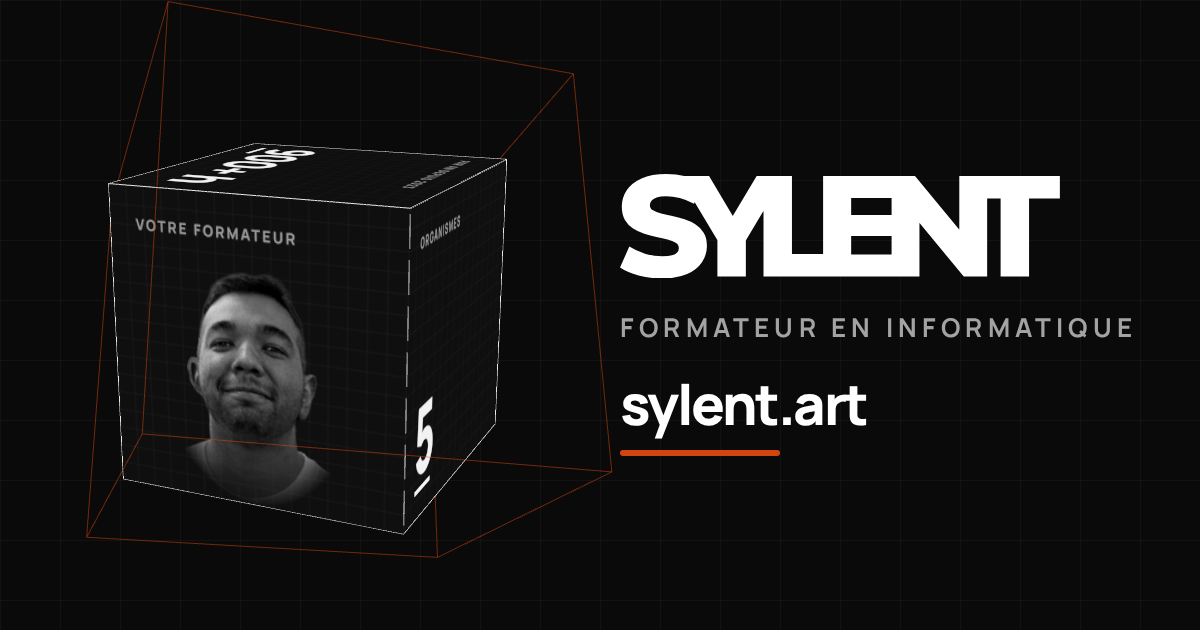
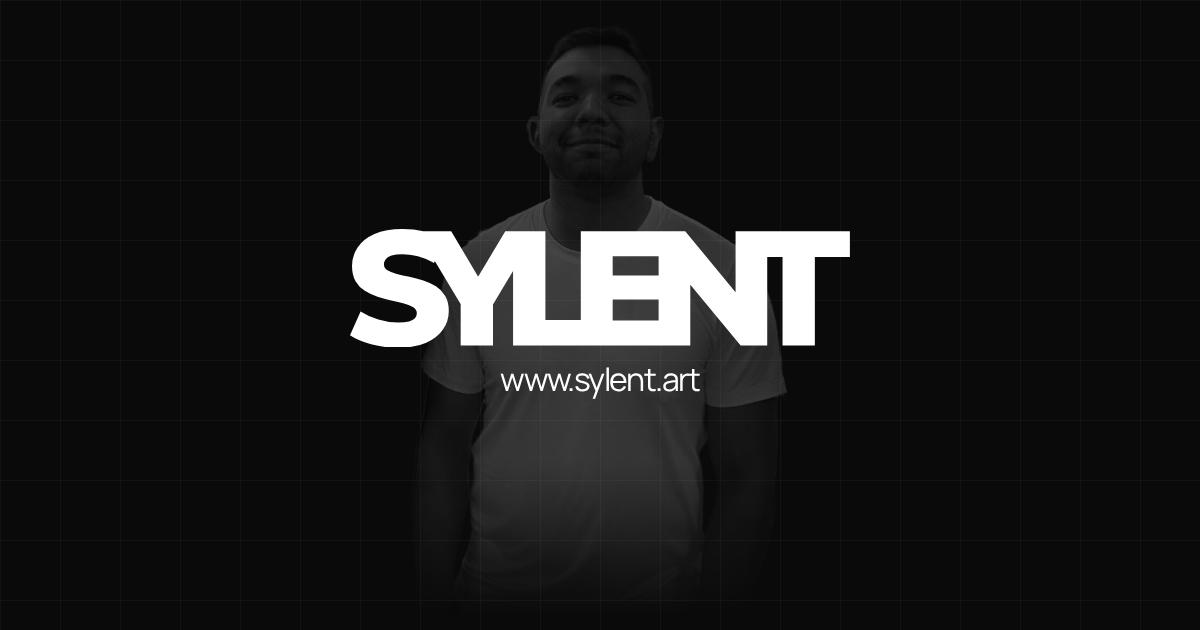
feat(launch): settle the preview card and check the open graph tags
The preview card becomes the SYLENT logo and the address over the faded
photo of the owner, settled with the owner on a page of trials. The checks
now fail on a page whose card title, URL or image is wrong; the trials of
the cards on the preview are added to step 14c.

diff --git a/docs/technical-choices.md b/docs/technical-choices.md
@@ -26,7 +26,7 @@ The technical choices of the [roadmap](../roadmap.md), with their reasons and th
 - **Redirects**: in a static build, Astro's `redirects` option writes, for each former URL, a page with a canonical link and an immediate `<meta http-equiv="refresh">`, which is what `specs.md` asks for since GitHub Pages has no server-side redirects. Astro doesn't add the base path to their destination: `astro.config.mjs` adds it. The redirects of `/courses/<id>` are generated by `src/pages/courses/[id].astro` (`Astro.redirect`, which writes the same page) from the `formerId` of each module, so a former URL cannot be forgotten; the others, `/courses`, `/about` and `/policy` toward their French paths and `/articles`, `/articles/1`, `/articles/2` to the home page since the site has no articles, are written in `astro.config.mjs`.
 - **Redirect pages in French**: `experimental.redirectPage` (Astro 7.4, still experimental on 2026-10-30, chosen with the owner) writes each redirect, those of `redirects` and of `Astro.redirect` alike, with `src/pages/3xx.astro` instead of Astro's page in English: a black page « Cette page a changé d’adresse », with the same immediate refresh, canonical link and `noindex`, without the fonts and scripts of the site. Astro also builds the template itself as `/3xx.html`, without a redirect to fill it: a hook of `astro.config.mjs` removes it, if it is there. If the option disappears or the page fails, Astro falls back to its own page in English and the redirects keep working; `scripts/check-former-urls.mjs` then fails, since it checks that every redirect page is the French one.
 - **Sitemap and `robots.txt`**: `scripts/sitemap.mjs`, a small integration of `astro.config.mjs`, writes `sitemap.xml` once the site is built, from the canonical link of every built page that points to itself (compared to the path of its file, under the base; the build fails if none does): the redirect pages, whose canonical link points to their target, and the not-found page, which has none (`noindex`), are left out by construction, and a new page is listed without changing the script. `src/pages/robots.txt.ts` allows every page and gives the address of the sitemap. Rejected: `@astrojs/sitemap`, a dependency whose filter would have to list every redirect, the `Astro.redirect` pages of the former courses and of the formations of a single module included.
-- **Open Graph**: `src/layouts/base-layout.astro` gives every page the tags that LinkedIn and Facebook read to show a card for a link (`og:title` and `og:description` from the title and meta description of the page, `og:url` from its canonical URL, `og:site_name`, `og:locale`, `twitter:card` for the networks that read only it) and one image, `src/assets/brand/social-card.png` (see [docs/branding.md](branding.md#icons-and-images)). `getImage` converts it to JPEG at 1200 × 630 (about 60 kB): the networks read JPEG everywhere, WebP not always; its name carries a hash of its content, so that a new image gets a new URL, which the networks fetch again instead of their cached copy. The URLs are absolute, built from `site` and the base, as the networks require. The not-found page has no `og:url`, as it has no canonical link.
+- **Open Graph**: `src/layouts/base-layout.astro` gives every page the tags that LinkedIn and Facebook read to show a card for a link (`og:title` and `og:description` from the title and meta description of the page, `og:url` from its canonical URL, `og:site_name`, `og:locale`, and `twitter:card`, from which X picks the large card, reading the rest from the Open Graph tags) and one image, `src/assets/brand/social-card.png` (see [docs/branding.md](branding.md#icons-and-images)). `getImage` converts it to JPEG at 1200 × 630 (about 60 kB): the networks read JPEG everywhere, WebP not always; its name carries a hash of its content, so that a new image gets a new URL, which the networks fetch again instead of their cached copy. The URLs are absolute, built from `site` and the base, as the networks require. The not-found page has no `og:url`, as it has no canonical link.
 - **Not-found page**: `src/pages/404.astro`, written as `404.html`, which GitHub Pages serves for every path without a page, with `noindex` and no canonical link.
 - **French paths** (see `specs.md`, URLs and redirects): `/formations/<formation>/<module>/` for a module, independent of the domains (decided by the owner on 2026-10-30, at step 13, replacing the tree `/domaines/<domain>/modules/<module>/` of 2026-10-29, which was only on the preview and got no redirect), `/formations/<formation>/` for a formation, `/domaines/<domain>/` for a domain, `/a-propos/`, `/confidentialite/`, `/mentions-legales/`. The module page is `src/pages/formations/[collection]/[module].astro`, the formation page `src/pages/formations/[collection]/index.astro` (a redirect to its module for a formation of a single module), the domain page `src/pages/domaines/[domain]/index.astro`, their paths given by `modulePath`, `formationPath` and `domainPath` in `src/lib/offers.ts`. `/formations/` shows one card per domain, as the home page; `/domaines/` and `/courses/` redirect to it.
 - **Content collections**: each domain, formation and module is a Markdown file whose front matter is validated by a schema at build time (title, summary, domains, `formerId`, scene…). A missing field, an unknown scene, a duplicate order or former id, or a domain whose list of formations doesn't match its modules (checked across files by `src/lib/offers.ts`) fails the build instead of publishing a broken page. A formation is a **collection** in the code (`src/content/collections/`, the `Collection` and `Formation` types), as `specs.md` says; the Astro word « collection » names the three folders as well.
@@ -81,7 +81,7 @@ The technical choices of the [roadmap](../roadmap.md), with their reasons and th
 ## Link check
 
 - **linkinator** serves the built site (`dist/`) as a static host would, so `/a-propos` resolves to `a-propos/index.html` as on GitHub Pages, and follows every internal link of every page. External links are skipped in the regular check, so that a slow third-party site doesn't break the CI.
-- **`scripts/check-former-urls.mjs`** checks that every former URL (`/`, `/courses`, `/courses/1` to `/courses/12`, `/articles`, `/articles/1`, `/articles/2`, `/about`, `/contact`, `/policy`) exists in `dist/`, that each redirect points to the path `specs.md` gives it, written in the script, and that this page, and its anchor if any, exists (a redirect whose target it can't read fails); `npm run check:base` runs it on the github.io preview too, with its folder and its base, and that the dropped URLs (`/creations`, `/register`, `/login`) are not built. The URLs whose page a later step builds go in its `pending` list, with the step: each step removes its own (the check fails if a pending URL is built). The list is empty since step 9b. It also checks the redirects of the site, which no page links to and linkinator can't see: `/domaines/` leads to the formations page, and the address of each formation of a single module (`/formations/uml/`) to its module. Since step 14b, it also checks that the not-found page is built, that every redirect page is the French one of `src/pages/3xx.astro`, that Astro's template `/3xx.html` is not published, and that the sitemap lists only pages that exist, no redirect.
+- **`scripts/check-former-urls.mjs`** checks that every former URL (`/`, `/courses`, `/courses/1` to `/courses/12`, `/articles`, `/articles/1`, `/articles/2`, `/about`, `/contact`, `/policy`) exists in `dist/`, that each redirect points to the path `specs.md` gives it, written in the script, and that this page, and its anchor if any, exists (a redirect whose target it can't read fails); `npm run check:base` runs it on the github.io preview too, with its folder and its base, and that the dropped URLs (`/creations`, `/register`, `/login`) are not built. The URLs whose page a later step builds go in its `pending` list, with the step: each step removes its own (the check fails if a pending URL is built). The list is empty since step 9b. It also checks the redirects of the site, which no page links to and linkinator can't see: `/domaines/` leads to the formations page, and the address of each formation of a single module (`/formations/uml/`) to its module. Since step 14b, it also checks that the not-found page is built, that every redirect page is the French one of `src/pages/3xx.astro`, that Astro's template `/3xx.html` is not published, and that the sitemap lists only pages that exist, no redirect; and that every page that is not a redirect has the Open Graph tags of its own title and canonical link, and an `og:image` built in the site, under the base (linkinator skips that absolute URL).
 - linkinator's options are in `linkinator.config.json`: it follows the internal links, checks the URLs of the CSS (fonts) and the anchors (`#…`), and skips every address that isn't its local server.
 - **Links to pages still to build**: from step 7, the header and the footer linked to pages built by later steps; linkinator skipped them through a second pattern of `skip` in `linkinator.config.json`, removed in step 9b once every page of the first release existed. A link to a page not built yet goes there again, until its step.
 - Rejected: **lychee**, faster, but a Rust binary that the owner would install apart from npm; linkinator runs from `npm ci` locally and in CI alike.

diff --git a/roadmap.md b/roadmap.md
@@ -30,7 +30,7 @@ Read only by the steps that need them:
 - [ ] **14. Launch**, announced on LinkedIn, Instagram and the owner's Facebook page (asked on 2026-10-30): the supports are prepared before the switch, and published after it.
   - [x] 14a. Communication supports (#45): teaser and launch video, story and feed, the text of the post; kept by the owner out of the repository.
   - [x] 14b. Site ready to share (#46, #47): 404 page, French redirect pages, sitemap, `robots.txt`, GoatCounter on `sylent.art` only, Open Graph tags and preview card.
-  - [ ] 14c. Switch: the DNS records described for the owner, their TTL lowered to 5 minutes a day or two before; once the DNS points to GitHub Pages, remove `SITE_URL` and `BASE_PATH` from `deploy.yml` and the `check:base` script, set the custom domain in the Pages settings and enforce HTTPS (see [Deployment](docs/technical-choices.md#deployment)); check the cards of the links with the LinkedIn Post Inspector and the Facebook Sharing Debugger; show the owner how to stop counting their own visits (`#toggle-goatcounter`, [External services](docs/external-services.md)).
+  - [ ] 14c. Switch. Before it, on the preview: paste `https://aunimhsn.github.io/sylent.art/` in the LinkedIn Post Inspector and the Facebook Sharing Debugger, with `?ref=linkedin` and `?ref=facebook`, and a former address (`/about/`): check that the card shows, that the link keeps its `?ref=` (otherwise decide with the owner: accept it, or remove `og:url` from the home page), and that a redirect page shows a card (otherwise give `3xx.astro` the tags, or exclude it in `specs.md`). Then: the DNS records described for the owner, their TTL lowered to 5 minutes a day or two before; once the DNS points to GitHub Pages, remove `SITE_URL` and `BASE_PATH` from `deploy.yml` and the `check:base` script, set the custom domain in the Pages settings and enforce HTTPS; check that `www.sylent.art`, the address shown on the preview card, redirects to `sylent.art` (see [Deployment](docs/technical-choices.md#deployment)); check the cards of the links with the LinkedIn Post Inspector and the Facebook Sharing Debugger; show the owner how to stop counting their own visits (`#toggle-goatcounter`, [External services](docs/external-services.md)).
   - [ ] 14d. Publication by the owner: the teaser before the switch, which it announces on 3 November 2026; the launch video and the post once `sylent.art` is online, the link `https://sylent.art/?ref=linkedin` on LinkedIn and `?ref=facebook` on Facebook, so that GoatCounter tells the networks apart. The owner's Google Business Profile (asked on 2026-10-30): before the switch, the address hidden (a service area instead, the home address is never shown), the description of the new positioning, the category (« Formateur »), the phone; after the switch only, the link to the site `https://sylent.art/?ref=google`.
 - [ ] **15. Testimonials**: once the owner has collected at least three (LinkedIn recommendations, feedback from schools and learners, with consent to publish), add a testimonials section.
 - [ ] **16. More modules** (after the launch): TypeScript, C, an advanced Python module (data classes, Pydantic), and the modules to come of the tree of step 13 (DOM, PDO, POO in JavaScript, data visualization, CSS split into Flexbox and Grid), from the course material of `sylent-courses`; update the offers of `specs.md` first. Publish « UX / UI » (a draft in « Conception logicielle » since 2026-10-30, its program from the owner's course « Maquetter une application », brought up to Excalidraw, HTML and Claude Code) when the owner decides: a scene of its own instead of `layout`, its place among the formations of the domain, and the summary of the domain widened to the interface (e.g. « Penser un logiciel avant de l’écrire : ses données, sa structure, son interface. »). A formation card lists four modules at most, then a row « Et 6 autres » in gray to the page of the formation, so that a large formation doesn't stretch its row of cards (asked by the owner on 2026-10-30; four at most at the launch).

diff --git a/docs/branding.md b/docs/branding.md
@@ -247,7 +247,7 @@ The content rules (audiences, French typography, no rates) are in [specs.md](../
   - **Faded behind a section**, as the faded words behind the titles: behind the name on the about page, behind « Qui suis-je ? » on the home page (`src/components/owner-photo.astro`). Down to the hips, its bottom fading into the page, at 18 % from 900 px, on the right (on the about page, 6 % from the right of the window, but on a screen wider than 1440 px never further from the column than there, so that the head stays under the button « Me contacter », asked by the owner on 2026-10-30); below 900 px at 14 %, partly past the right edge, so that the face stays beside the name and not behind it (asked by the owner; on a phone 30 % of the width past the edge, on a tablet, from 640 px, 30 % of its own width; below 360 px the face may pass behind the name, accepted by the owner on 2026-10-29). Loaded at once on the about page, where it is the largest block of a phone screen. No effect. Decorative: the name beside it says who it is. The gray text keeps a contrast above 4.5:1 over its white.
   - **On the cube**: the face alone, in an oval that fades into the grid of its face (see Hero cube).
   - The source photo is about 530 px wide: sharp up to about 450 px on screen; its faded use hides its softness.
-- **Preview card** (`src/assets/brand/social-card.png`, 1200 × 630 px, chosen by the owner on 2026-10-30): the card that LinkedIn and Facebook show for a link to any page of the site, a frame of the cube of the launch video « Le cube » (step 14a): the face of the owner on the cube, in its orange shell, over the grid, beside the SYLENT logo, « Formateur en informatique » and « sylent.art » over a short orange rule. The same image for every page: the title and the description under it change with the page. Made with the tool of the launch videos (branch `docs/communication-kit`, format `card`), outside the site.
+- **Preview card** (`src/assets/brand/social-card.png`, 1200 × 630 px, settled with the owner on 2026-10-30 on a page of trials): the image that LinkedIn and Facebook show for a link to any page of the site, the same for every page (the title and the description under it change with the page). Over the background and the faint grid of the covers (60 px, white at 3.5 %), centered: the SYLENT logo, 500 px wide, and 10 px below « www.sylent.art » in Manrope 400 at 32 px, letter-spaced −0.05 em, in white; behind them, the photo down to the hips, faded as on the site, its bottom fading out, at 24 % rather than the 18 % of the site, so that the face still reads on a phone, where the card is about 360 px wide. Nothing else: no text, no cube (a frame of the cube of the launch video, the photo beside the logo, a thin or a heavy address were set aside). Drawn as an HTML page and captured at 1200 × 630, outside the site.
 - Images in a light format (WebP) at their displayed size, each with an `alt` text; the preview card only is served in JPEG, which every network reads.
 
 ## Accessibility

diff --git a/docs/roadmap-archive.md b/docs/roadmap-archive.md
@@ -7,7 +7,7 @@ The detail of the steps of [roadmap.md](../roadmap.md) once their pull request i
 Step 14, launch: what the site needs before its links are shared, in two pull requests.
 
 - 14b-1 (#46): the not-found page; the redirect pages in French (`src/pages/3xx.astro`, Astro's experimental `redirectPage`); `sitemap.xml` and `robots.txt` without the redirect pages (`scripts/sitemap.mjs`); GoatCounter on `sylent.art` only, its script pinned with its hash; the phone number of GitHub checked (none on its own pages, the public one kept); the owner's Google Business Profile added to step 14d.
-- 14b-2 (#47): the Open Graph tags on every page (title, description, URL, site name, locale) and one preview card of 1200 × 630 px, a frame of the cube of the launch video « Le cube », chosen by the owner on 2026-10-30 among three layouts, served in JPEG (see [Branding](branding.md#icons-and-images) and [Technical choices](technical-choices.md#astro)).
+- 14b-2 (#47): the Open Graph tags on every page (title, description, URL, site name, locale) and one preview card of 1200 × 630 px, the SYLENT logo and « www.sylent.art » in Manrope, centered over the faded photo of the owner, settled with the owner on 2026-10-30 after two rounds of layouts (a frame of the cube of the launch video set aside), served in JPEG (see [Branding](branding.md#icons-and-images) and [Technical choices](technical-choices.md#astro)).
 
 ## 14a. Communication supports (#45)
 

diff --git a/specs.md b/specs.md
@@ -209,7 +209,7 @@ GitHub Pages has no server-side redirects: a redirect is a static page with a ca
 
 - Static site on GitHub Pages, custom domain `sylent.art`, HTTPS enforced, `CNAME` file kept.
 - Every page has a title, a meta description, `lang="fr"`, and is usable at phone width.
-- Every page has the Open Graph tags, so that a link to it shows a card on LinkedIn and Facebook: its title, its description and one preview image of 1200 × 630 px, the same for the whole site, a frame of the cube of the launch video.
+- Every page has the Open Graph tags, so that a link to it shows a card on LinkedIn and Facebook: its title, its description and one preview image of 1200 × 630 px, the same for the whole site: the logo and the address over the faded photo of the trainer.
 - Accessibility: semantic HTML, sufficient contrast, every action reachable with the keyboard.
 - Images have an `alt` text and are served in a light format (e.g. WebP) at the size they are shown.
 - No secret and no personal data other than the public contact details in the public repository.
